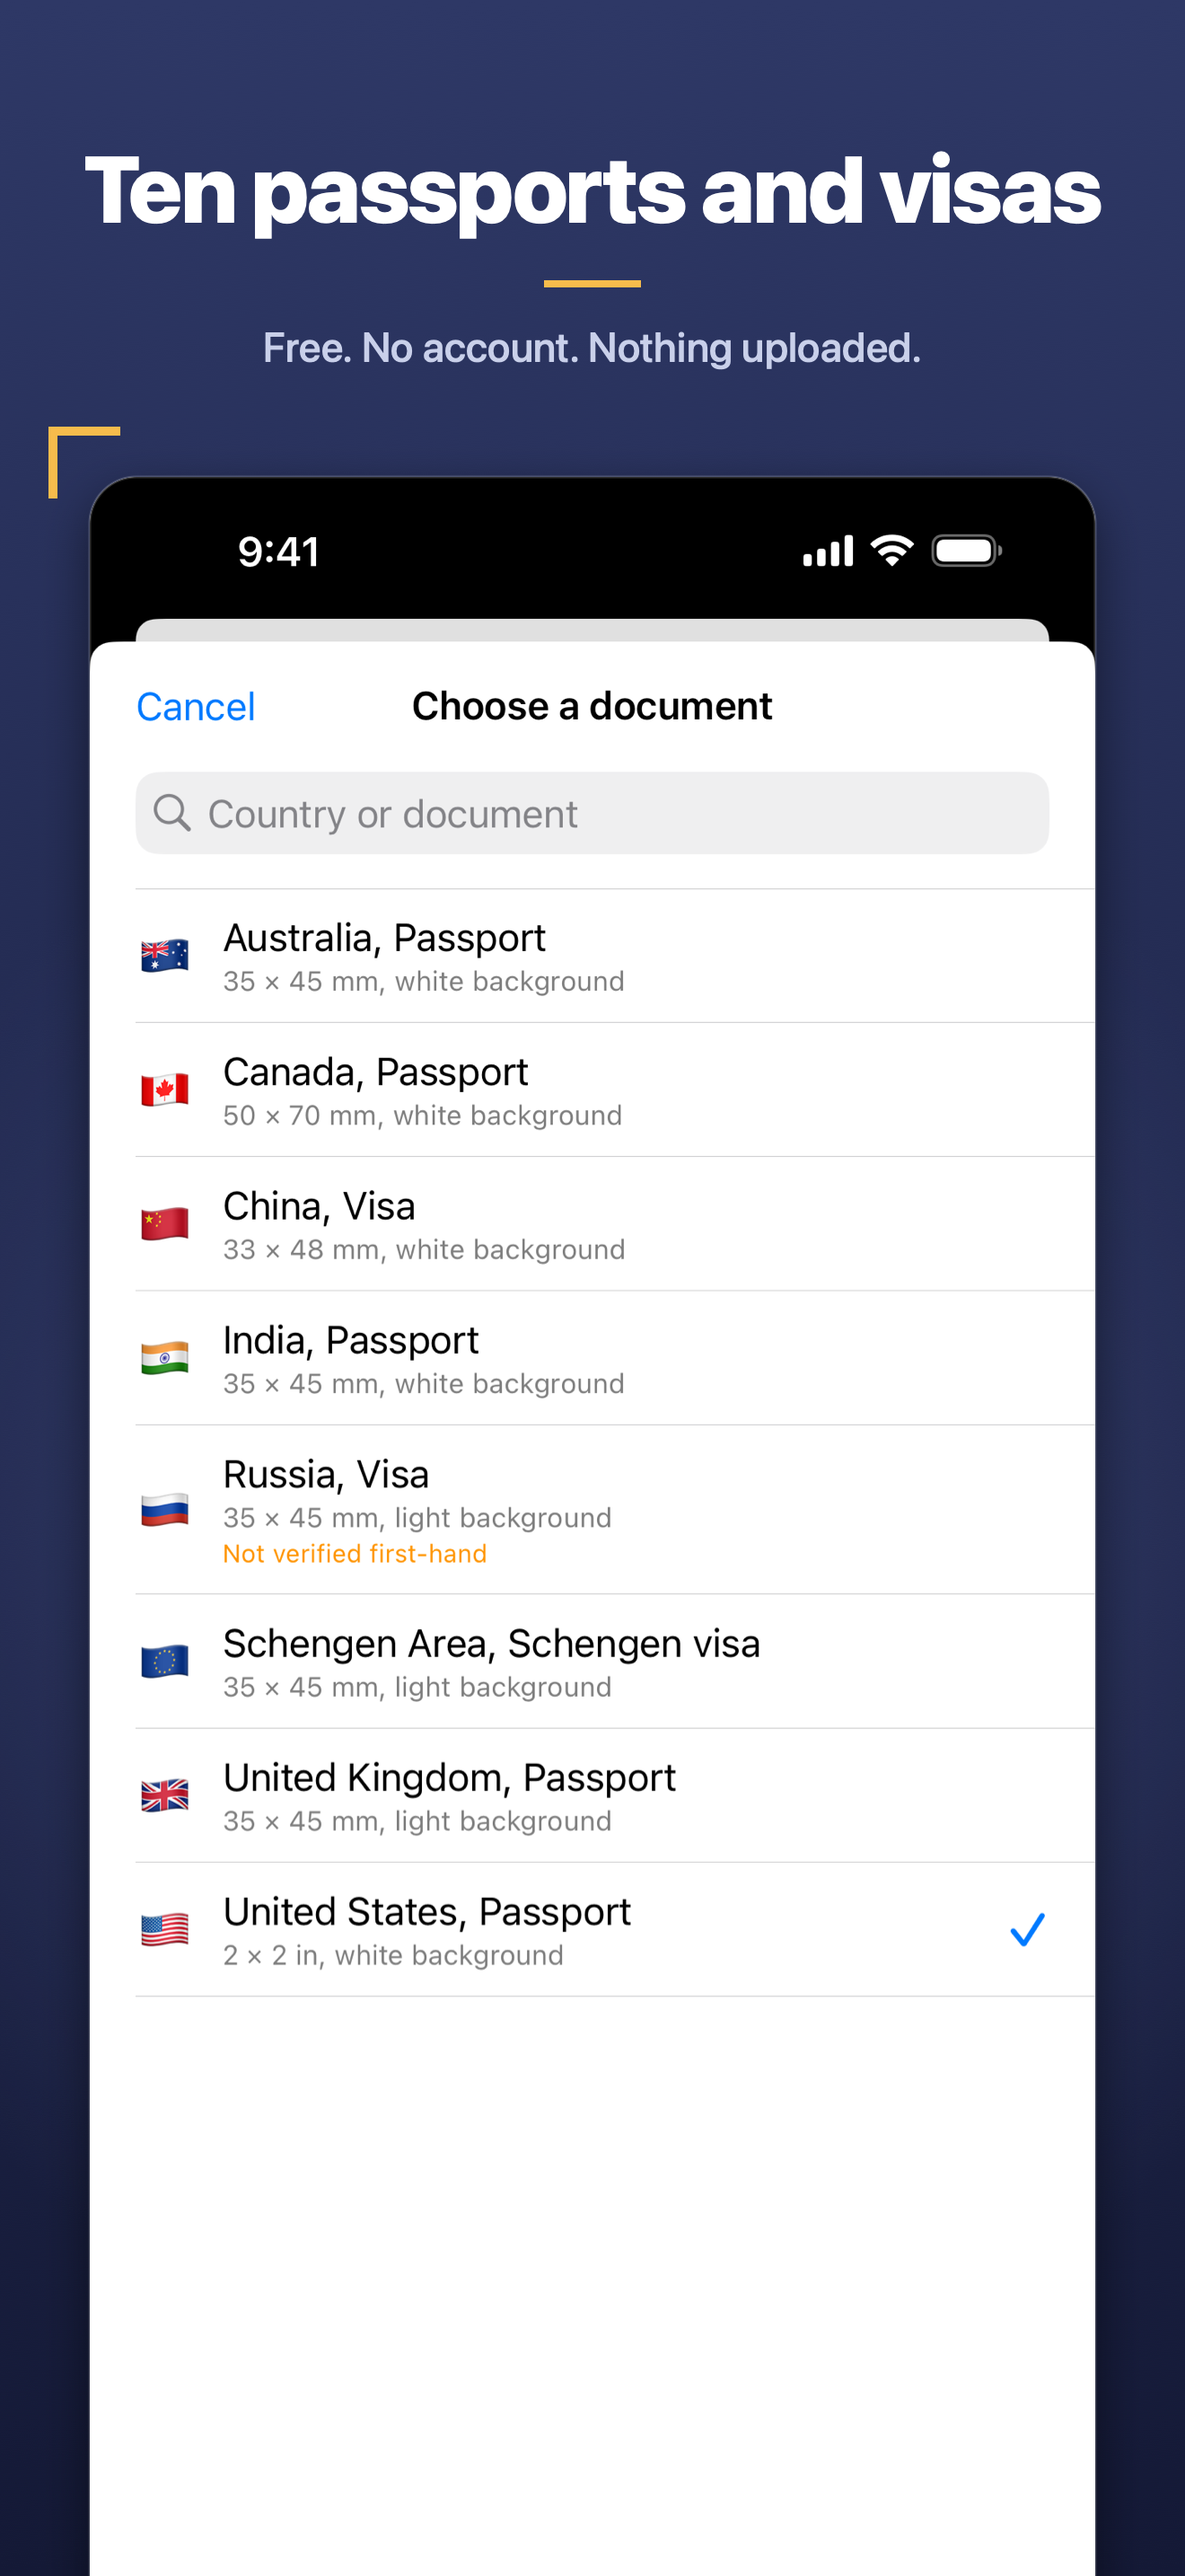
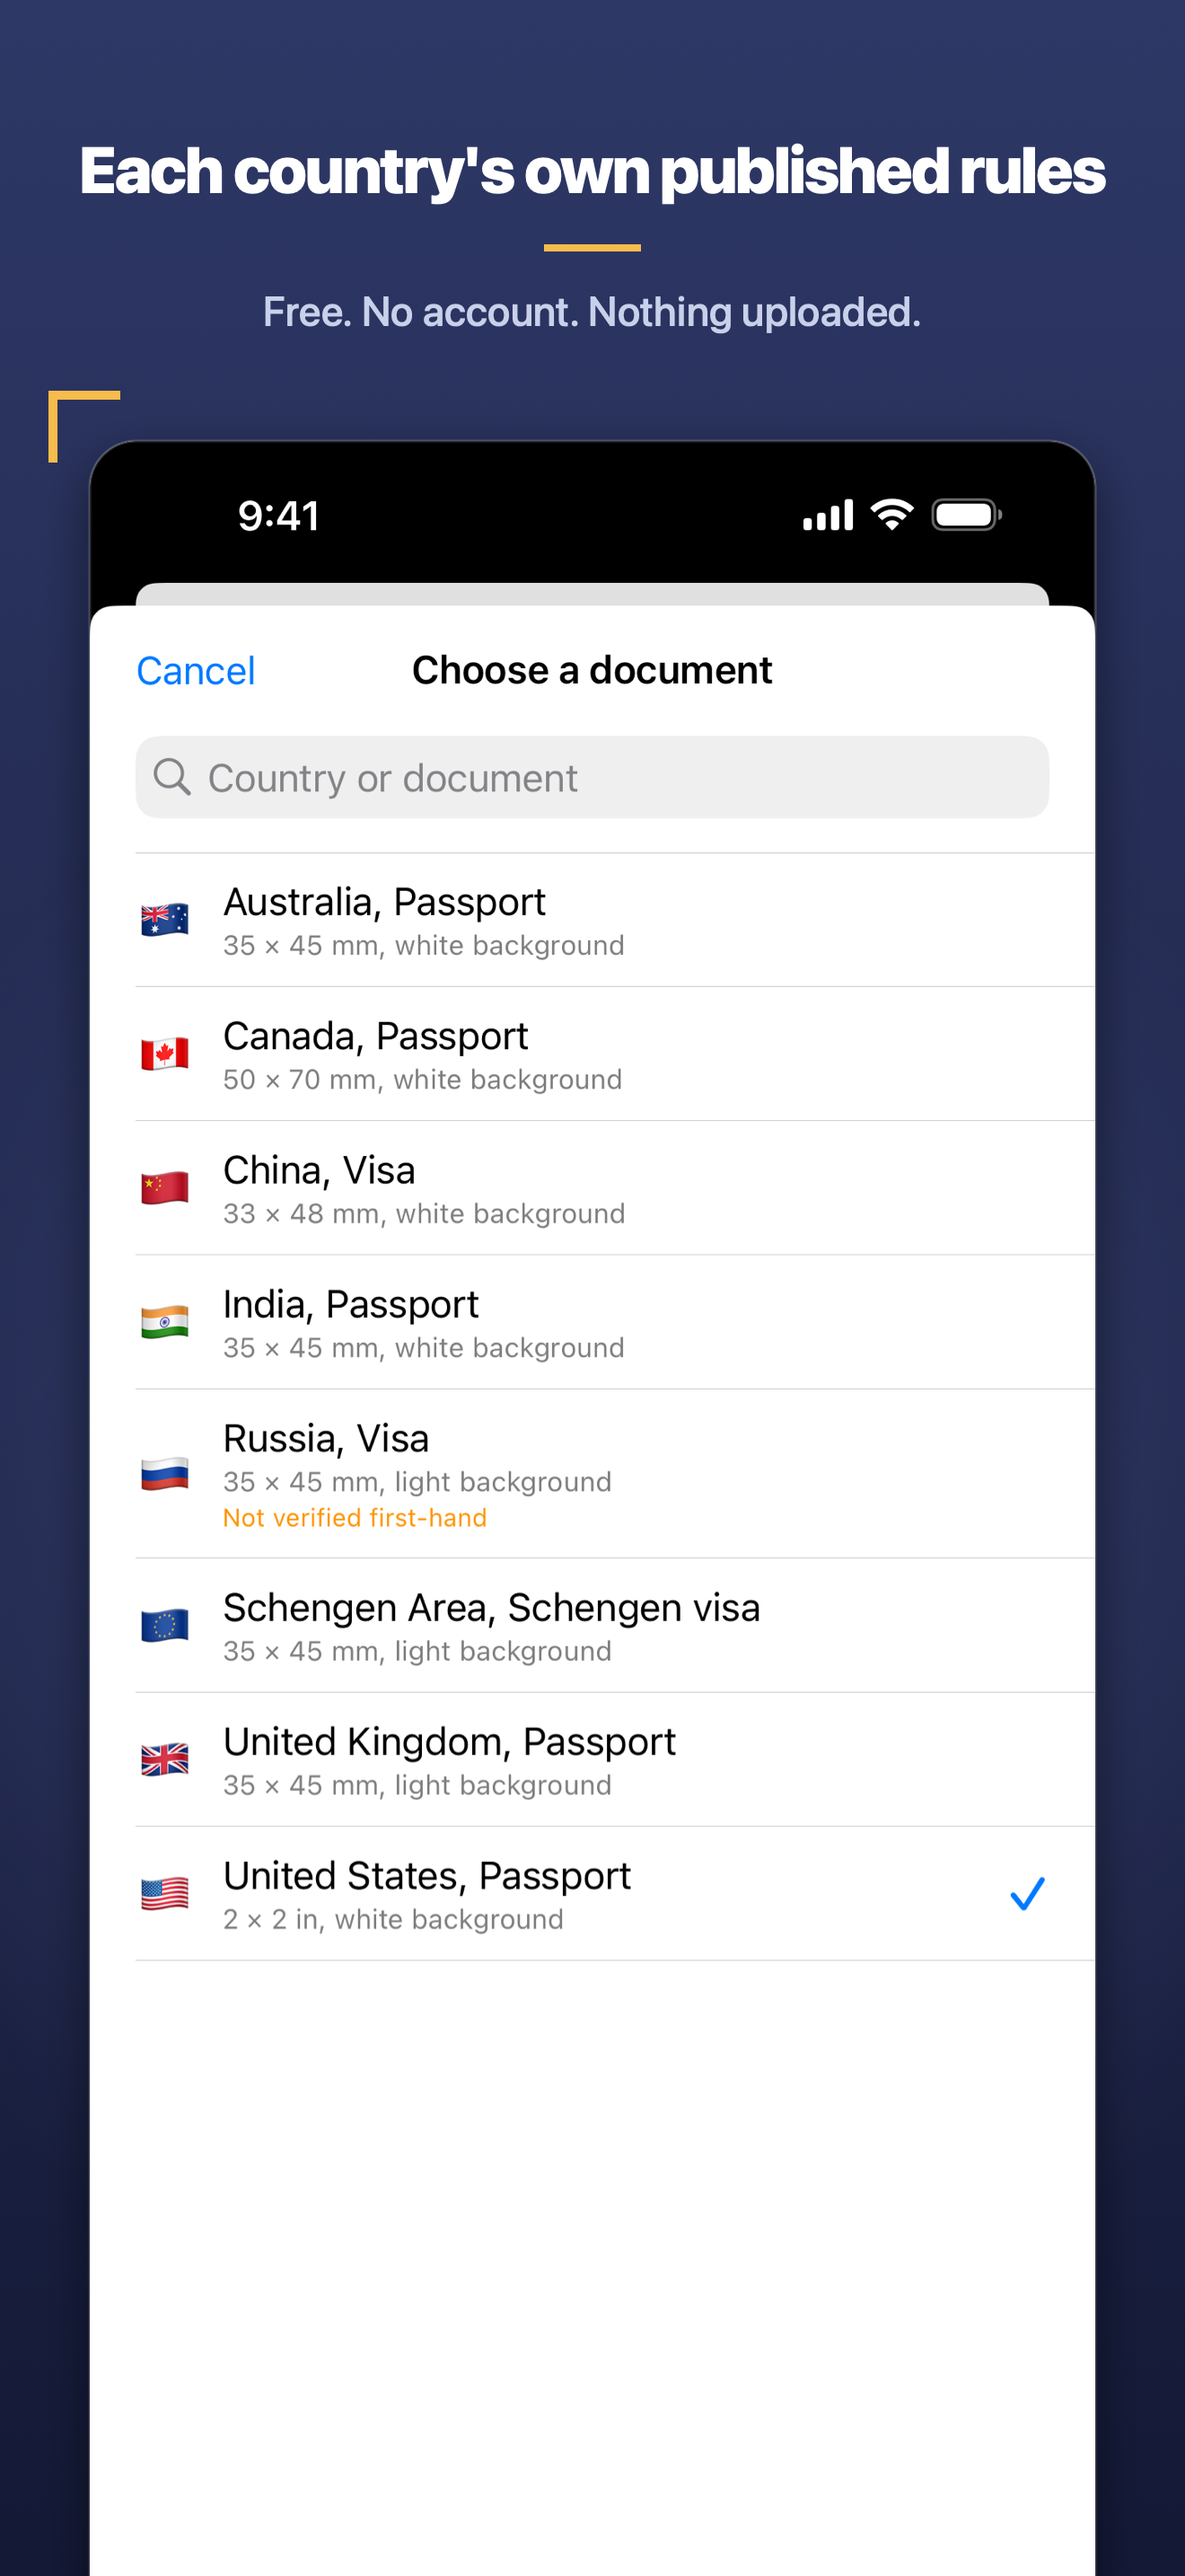
Drop the document count from the last slide
"Ten passports and visas" invites the comparison this app loses: the
category leaders advertise 100 countries. It also goes stale the moment a
spec is added. The slide now reads "Each country's own published rules",
which is the claim none of them make and the one the specs can back.

Changed region(s): [[0.0311, 0.031, 0.9318, 0.7758], [0.497, 0.5275, 0.528, 0.5586]]

diff --git a/tools/store-shot.swift b/tools/store-shot.swift
@@ -75,7 +75,7 @@ let slides: [Slide] = [
           presentation: .detail(CGRect(x: 45, y: 965, width: 1230, height: 1370))),
 
     Slide(file: "05-countries.png", source: "2-picker.png",
-          headline: "Ten passports and visas",
+          headline: "Each country's own published rules",
           subline: "Free. No account. Nothing uploaded.",
           presentation: .device),
 ]

diff --git a/docs/store/README.md b/docs/store/README.md
@@ -22,7 +22,7 @@ pictures of an app, because most people swipe the first two and stop:
 | `02-measured.png` | Measured, not guessed | It is measurement, not a crop tool |
 | `03-honest.png` | Honest about what it cannot check | The thing no competitor does |
 | `04-print.png` | Exactly how to print it | The part people actually get wrong |
-| `05-countries.png` | Ten passports and visas | Free, no account, nothing uploaded |
+| `05-countries.png` | Each country's own published rules | Free, no account, nothing uploaded |
 
 All five show **one part of a screen, enlarged**, except the last. A full iPhone screen is
 unreadable at the size these are browsed at, and on the home screen the lower half is empty.
